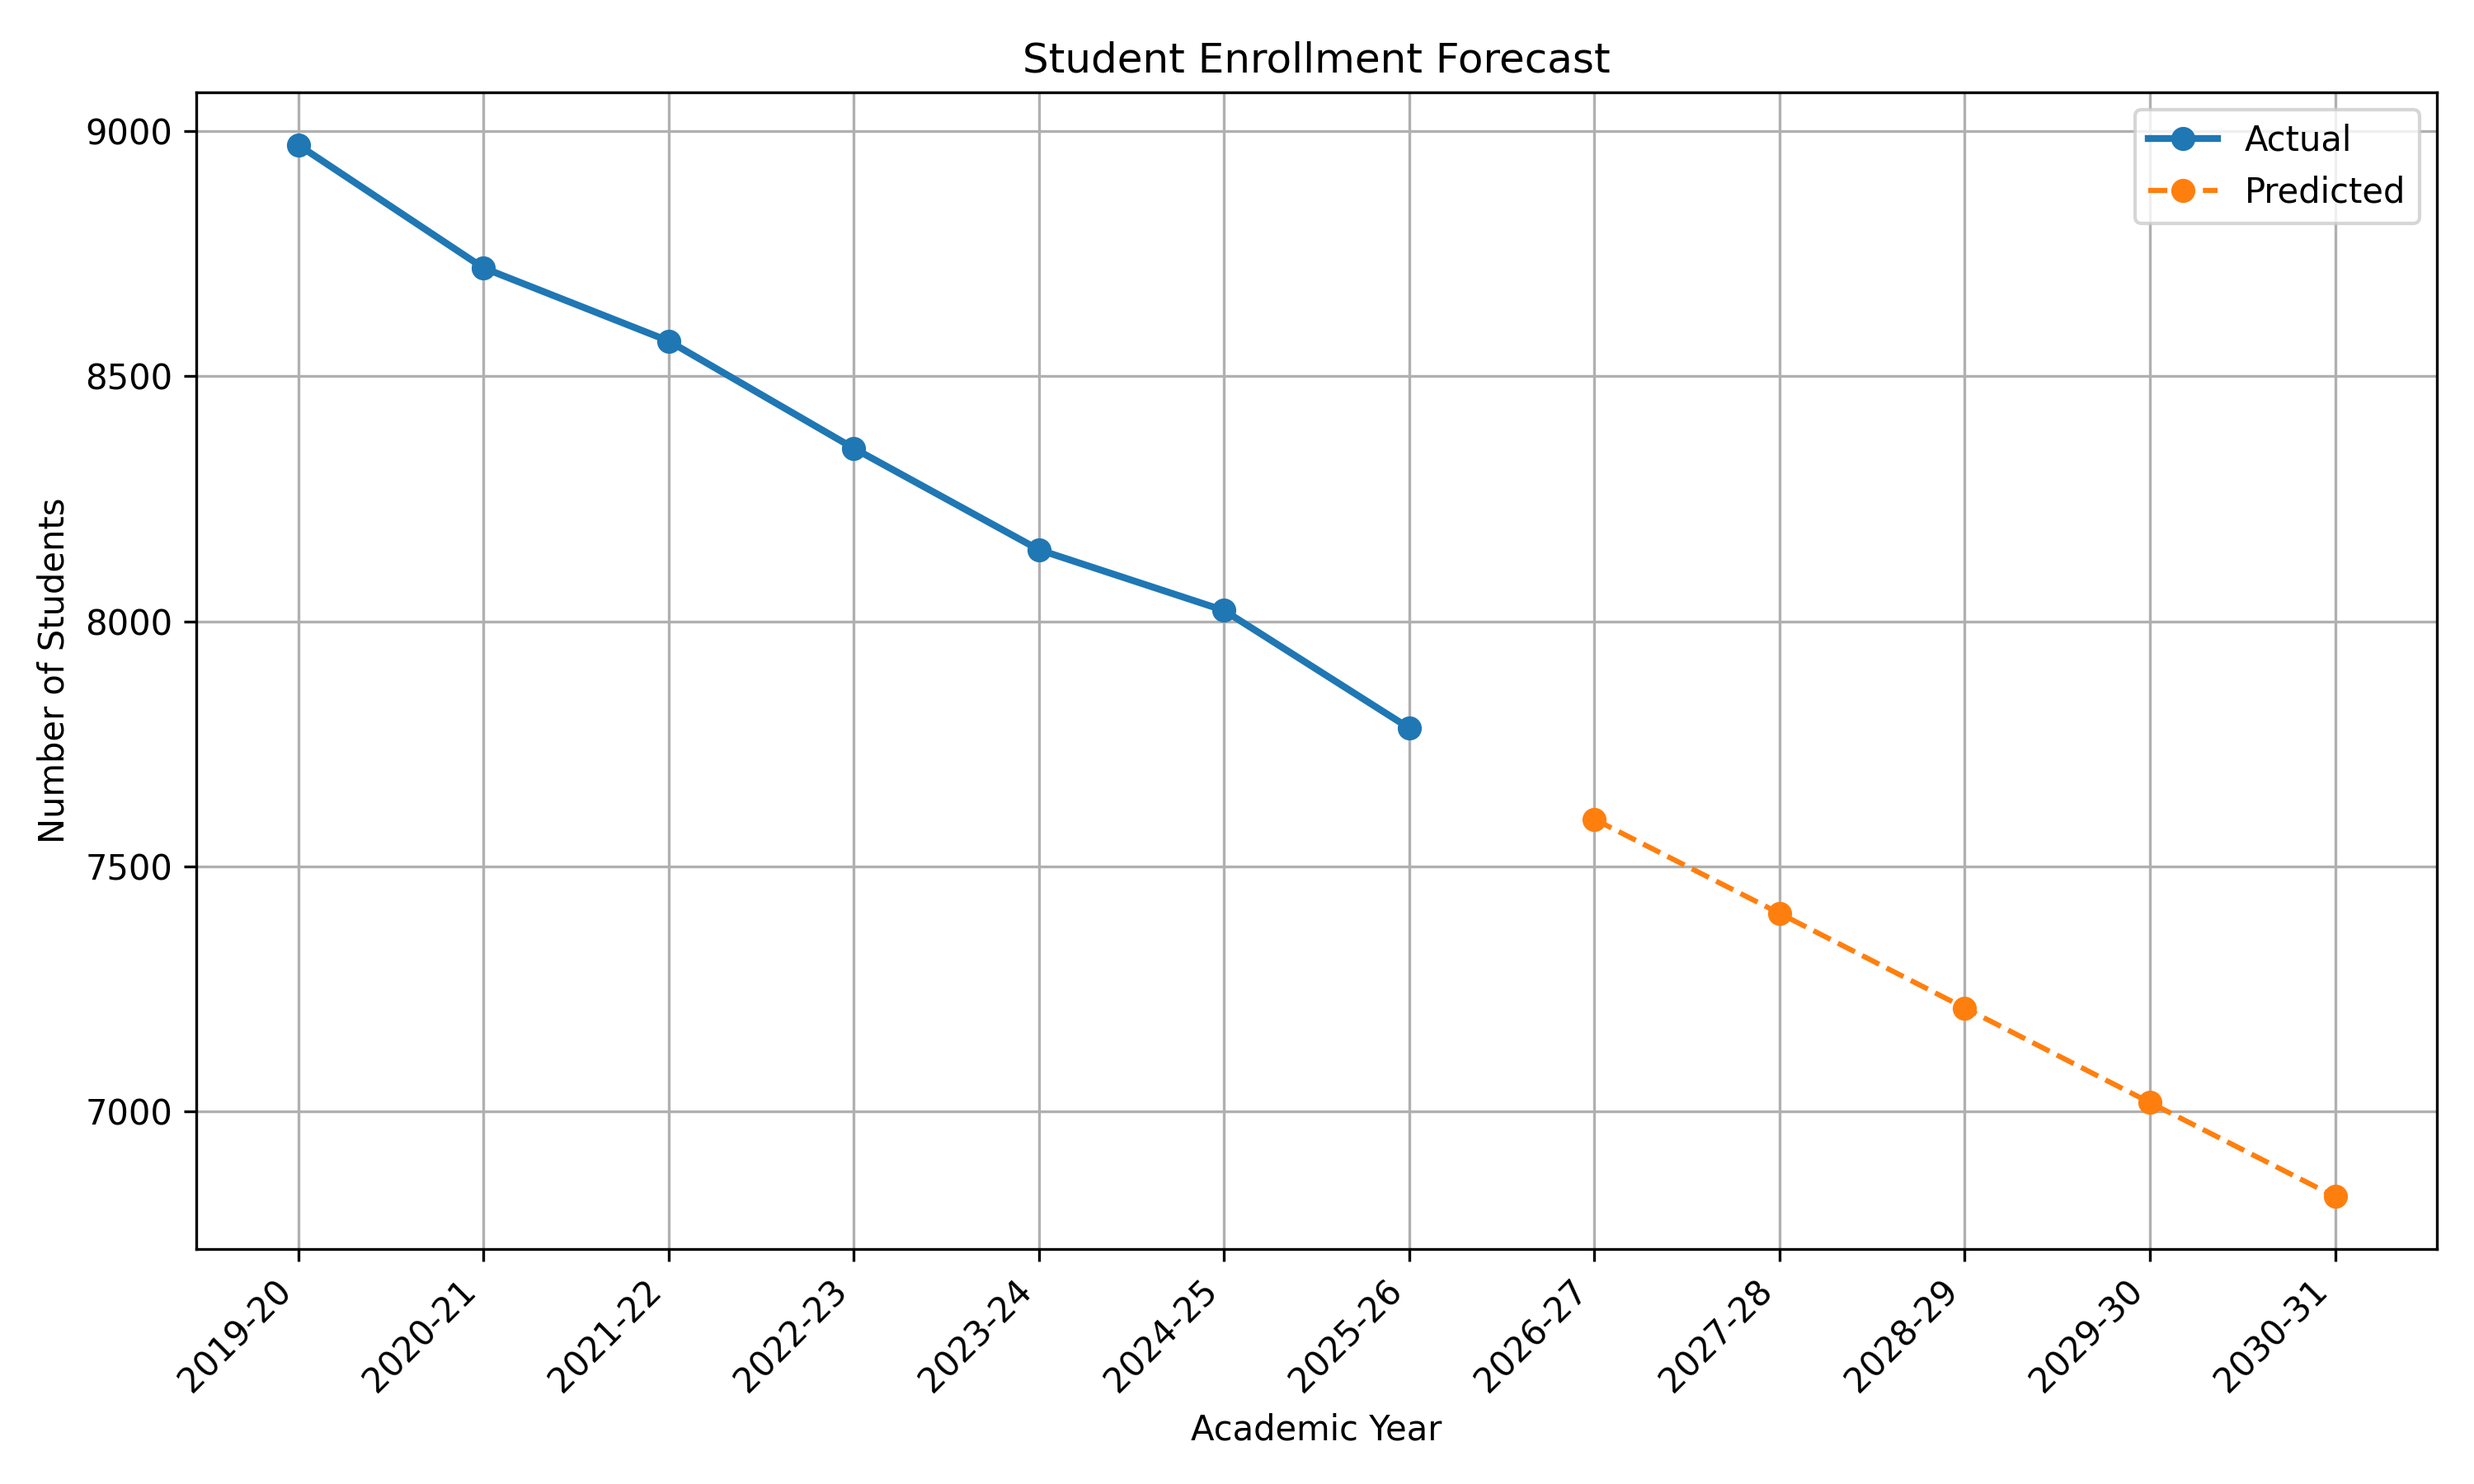
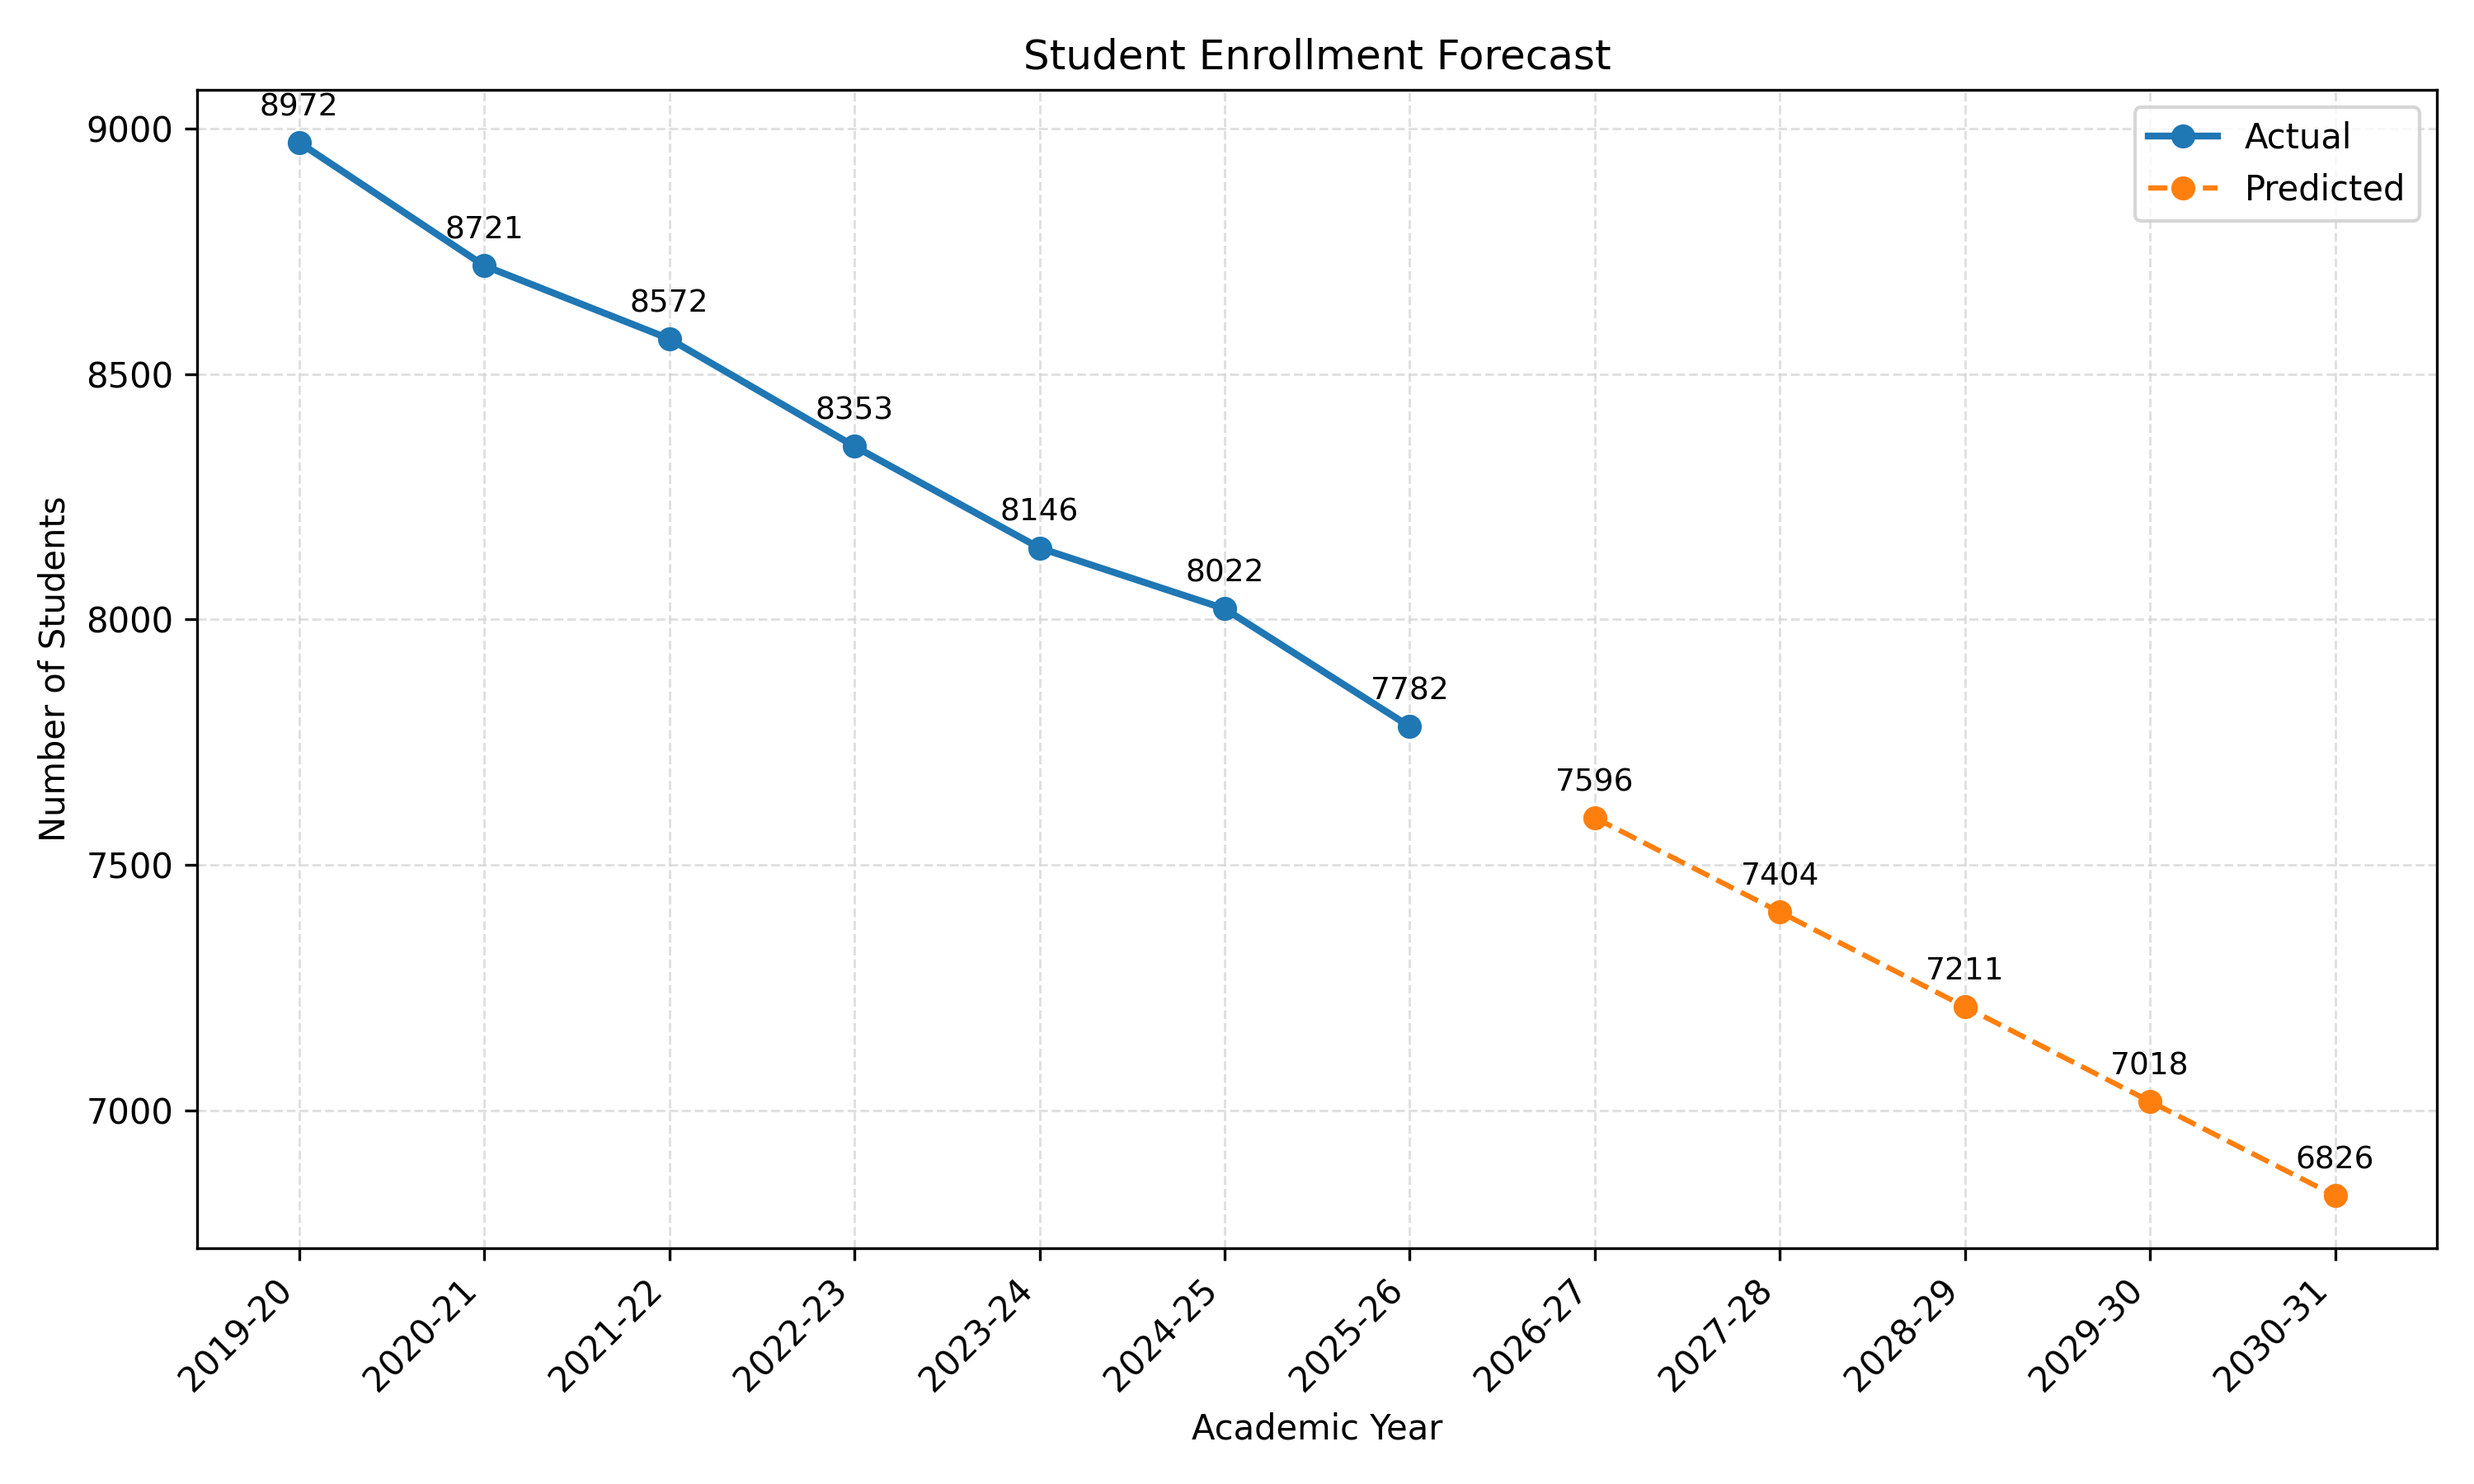
clean up grid

diff --git a/day101/main.py b/day101/main.py
@@ -76,8 +76,19 @@ def main():
     # -----------------------------
     plt.figure(figsize=(10, 6))
 
+    # plot lines
     plt.plot(numeric_years, y, marker="o", linewidth=2, label="Actual")
     plt.plot(future_x, predictions, marker="o", linestyle="--", label="Predicted")
+
+    # ---- ADD VALUE LABELS ----
+    # actual values
+    for x_val, y_val in zip(numeric_years, y):
+        plt.text(x_val, y_val + 55, f"{int(y_val)}", ha="center", fontsize=9)
+
+    # predicted values
+    for x_val, y_val in zip(future_x, predictions):
+        plt.text(x_val, y_val + 55, f"{int(y_val)}", ha="center", fontsize=9)
+    # --------------------------
 
     all_x = list(numeric_years) + list(future_x)
     all_labels = years + future_years
@@ -87,7 +98,7 @@ def main():
     plt.ylabel("Number of Students")
     plt.title("Student Enrollment Forecast")
     plt.legend()
-    plt.grid(True)
+    plt.grid(True, color="lightgray", linestyle="--", linewidth=0.7, alpha=0.7)
 
     plt.tight_layout()
 
